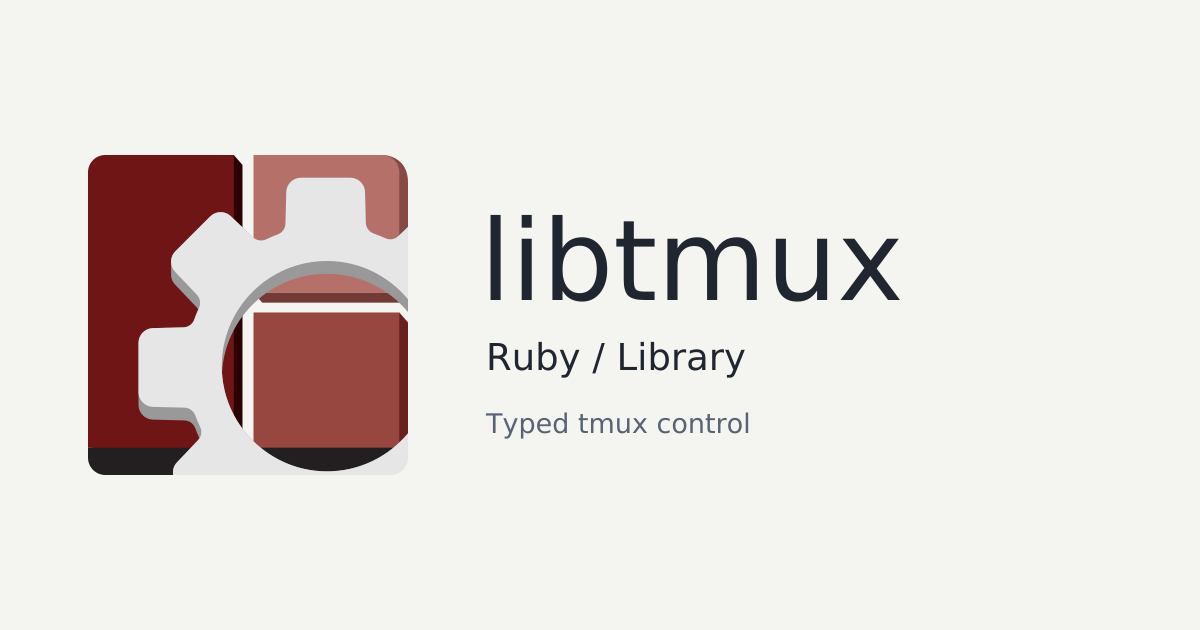
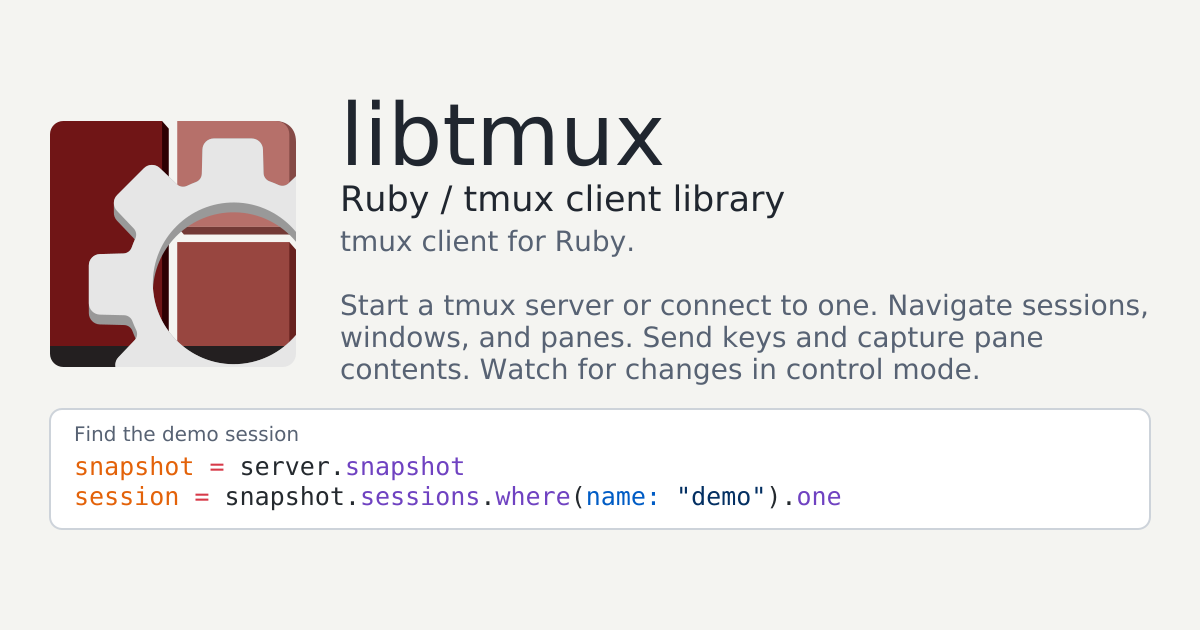
Docs(brand): Show a query on the sharing card
why: Sharing a library link should show how to query tmux in that
language.

what:
- Copy the reviewed sharing artwork and record its source revision

Changed region(s): [[0.0308, 0.1508, 0.9558, 0.8444], [0.555, 0.754, 0.5858, 0.7841]]

diff --git a/assets/README.md b/assets/README.md
@@ -12,3 +12,6 @@ symbol comes from the [upstream logo](https://github.com/modelcontextprotocol/mo
 Package-specific artwork sits beside its README where the package format
 supports it. `.github/social-preview.png` is the cog sharing card, ready to
 upload under the repository's **Settings → Social preview**.
+
+The sharing card comes from `assets/ruby/library/opengraph-light.png`
+at kit revision `c9688d9db25e4c522ff1255d0f3badaf27d780dd`.
